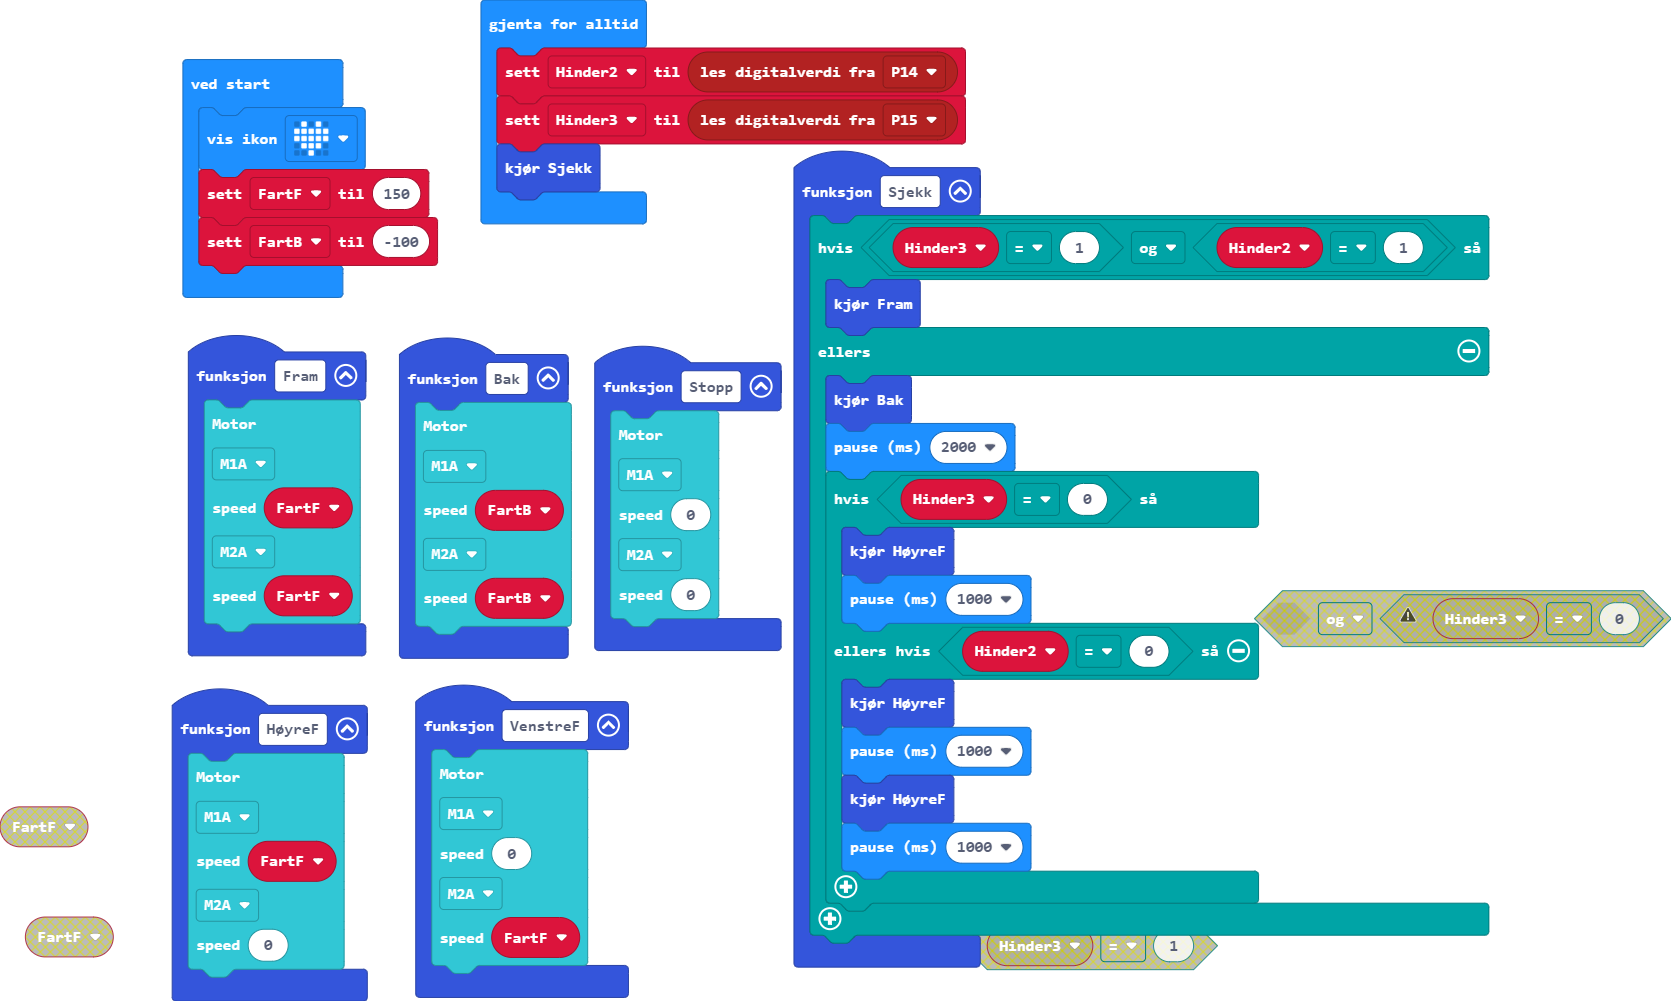
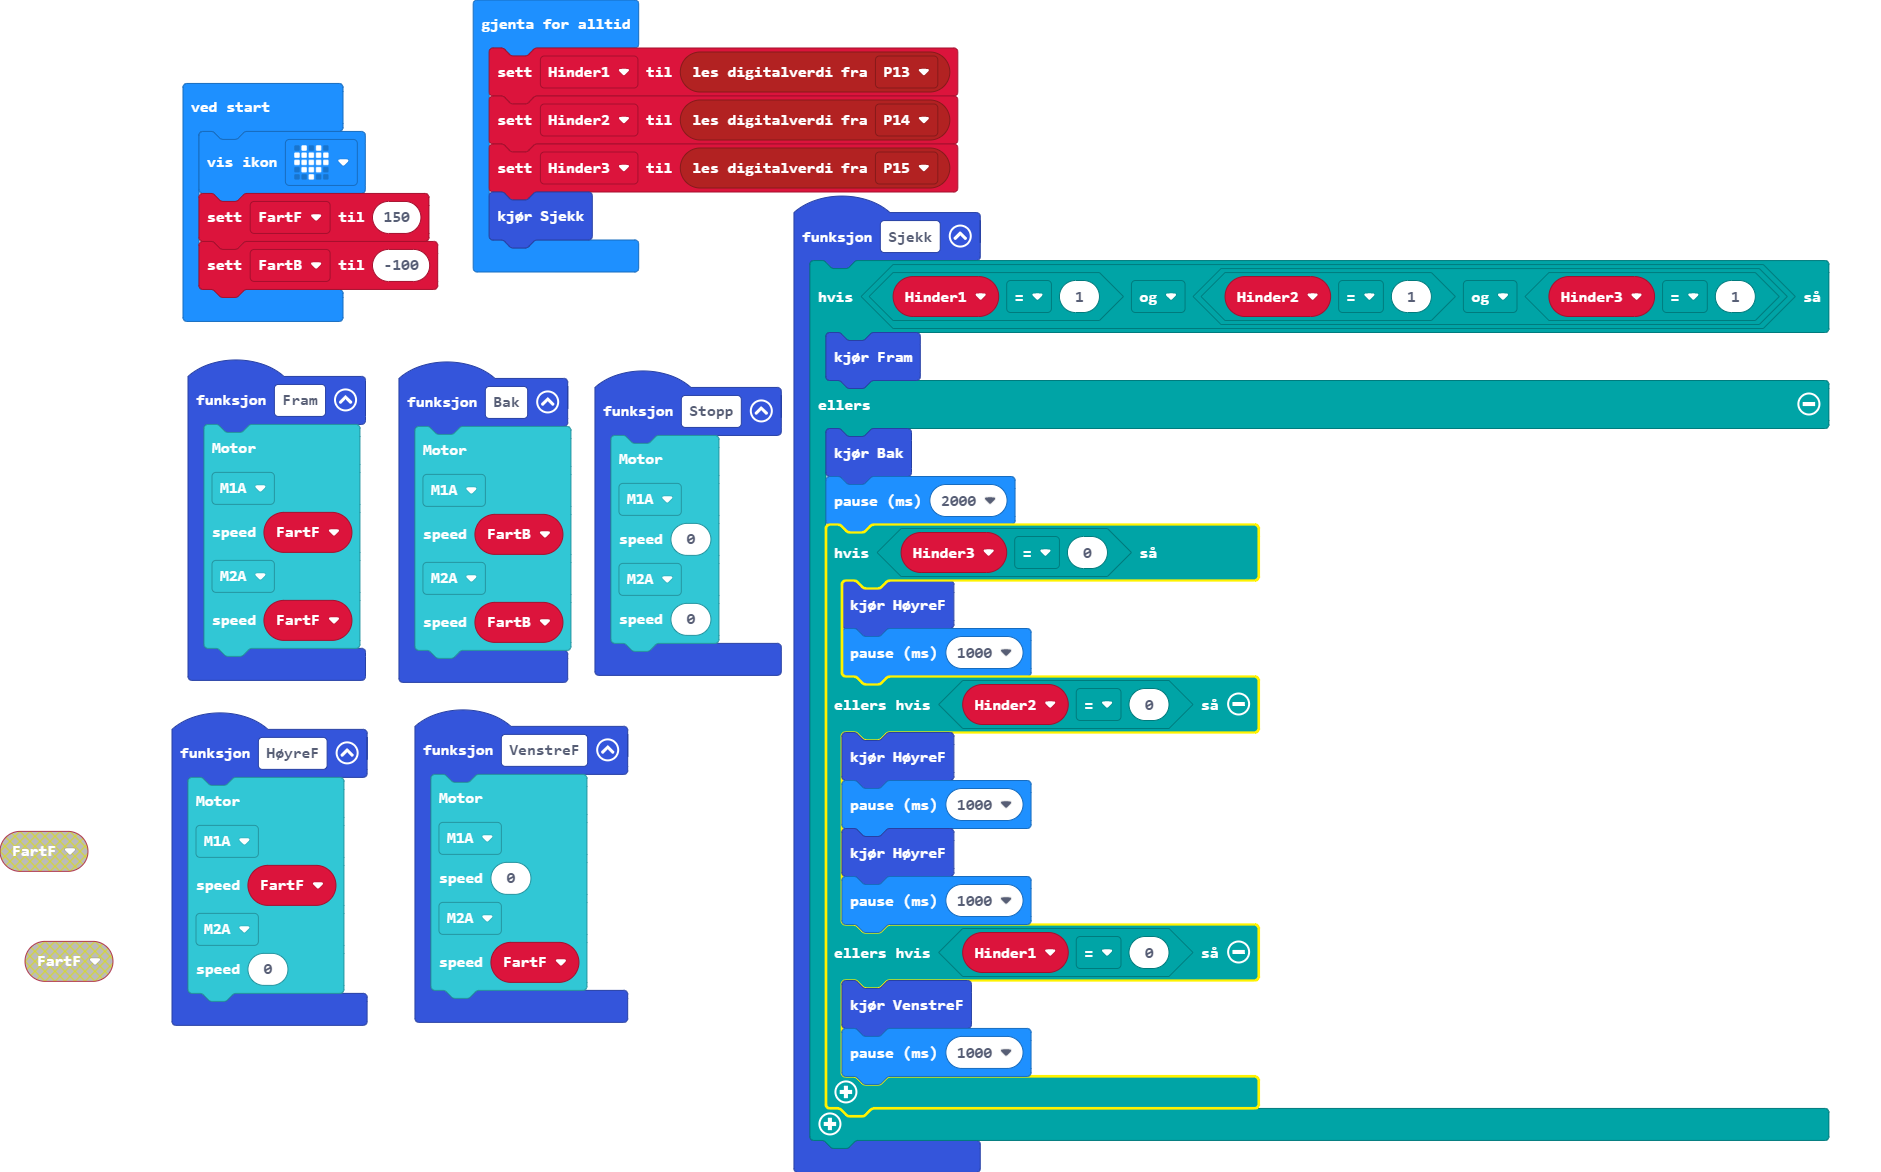
Update main.blocks, main.ts

diff --git a/main.ts b/main.ts
@@ -1,5 +1,5 @@
 function Sjekk () {
-    if (Hinder3 == 1 && Hinder2 == 1) {
+    if (Hinder1 == 1 && (Hinder2 == 1 && Hinder3 == 1)) {
         Fram()
     } else {
         Bak()
@@ -11,6 +11,9 @@ function Sjekk () {
             HøyreF()
             basic.pause(1000)
             HøyreF()
+            basic.pause(1000)
+        } else if (Hinder1 == 0) {
+            VenstreF()
             basic.pause(1000)
         }
     }
@@ -55,14 +58,16 @@ function Fram () {
     FartF
     )
 }
-let Hinder2 = 0
 let Hinder3 = 0
+let Hinder2 = 0
+let Hinder1 = 0
 let FartB = 0
 let FartF = 0
 basic.showIcon(IconNames.Heart)
 FartF = 150
 FartB = -100
 basic.forever(function () {
+    Hinder1 = pins.digitalReadPin(DigitalPin.P13)
     Hinder2 = pins.digitalReadPin(DigitalPin.P14)
     Hinder3 = pins.digitalReadPin(DigitalPin.P15)
     Sjekk()
